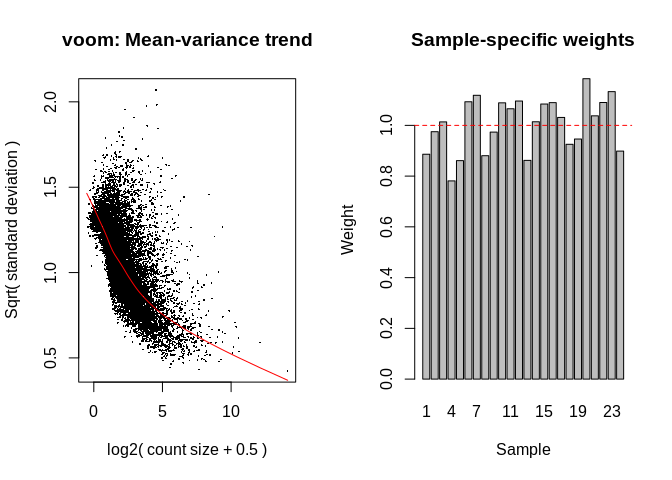
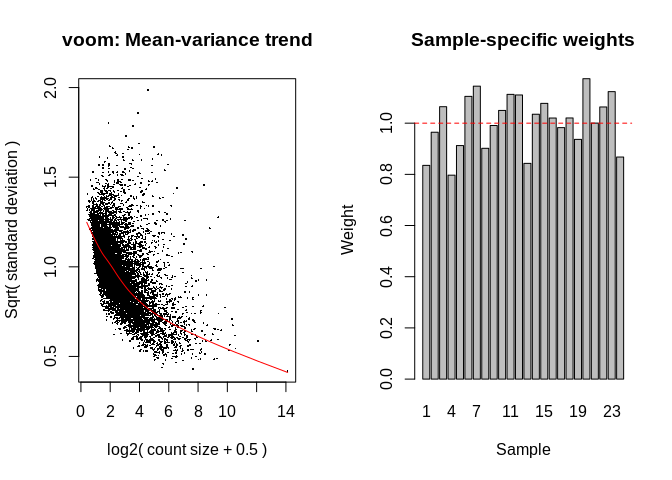
mark down updates

diff --git a/markdown_files/STAR_pipeline/03B_CV17_RNA_countNormilization.md b/markdown_files/STAR_pipeline/03B_CV17_RNA_countNormilization.md
@@ -81,11 +81,11 @@ g_mat <- scenario1$countMatrix
   <tr>
    <td style="text-align:left;"> Scenario 1 </td>
    <td style="text-align:left;"> 50 </td>
-   <td style="text-align:left;"> 0.5 </td>
-   <td style="text-align:left;"> 11690 </td>
-   <td style="text-align:left;"> 29.9720534317873 </td>
-   <td style="text-align:left;"> 4361101 </td>
-   <td style="text-align:left;"> 91.9522652077217 </td>
+   <td style="text-align:left;"> 0.2 </td>
+   <td style="text-align:left;"> 9009 </td>
+   <td style="text-align:left;"> 23.098223213599 </td>
+   <td style="text-align:left;"> 3915817 </td>
+   <td style="text-align:left;"> 82.5636102646798 </td>
   </tr>
 </tbody>
 </table></div>
@@ -908,7 +908,7 @@ To see a full description of this method please reference the original paper. [(
 ### Final count matrix Transformations  
 
 #### Using ```Voom``` in the ```limma``` package to transform data yet again.  
-Voom transform the count data using voomWithQualityWeights function. Voom transformation log normalizes the cpm data. Given that we a passing the DGEList that has already computed the normalization factors we can specify the ```lib.size``` and specify the ```normalization.method = "none"```  
+Voom transform the count data using voomWithQualityWeights function. Voom transformation log normalizes the cpm data. Given that we are passing the DGEList that has already computed the normalization factors we can specify the ```lib.size``` and specify the ```normalization.method = "none"```  
 
 
 ```r
@@ -919,7 +919,7 @@ v1 <- voomWithQualityWeights(dgeNorm, design=design, lib.size=dgeNorm$samples$li
   
 ### Including blocking variable in count matrix transformation  
   
-**Problem**: Our original meta data contains additional information about difference between samples that is not currently being utilized. This included at least one additional fixed fixed  factor (population), as well as random and blocking factors (the tank each oyster was sampled from). This latter can be accounted for in voom tranformation by inputting the blocking variable within the the function ```voomWithQualityWeights``` by using the arguement ```block=model$blockVariable```. In addition, the degreee of correlation between you blocking variable and your fixed factors (your design from above) should be inputted into the function. This can be estimated using ```duplicateCorrelation```.  
+**Problem**: Our original meta data contains additional information about difference between samples that is not currently being utilized. This included at least one additional fixed factor (population), as well as random and blocking factors (the tank each oyster was sampled from). This latter variable can be accounted for in voom tranformation by inputting the blocking variable within the the function ```voomWithQualityWeights``` by using the arguement ```block=model$blockVariable```. In addition, the degreee of correlation between your blocking variable and your fixed factors (your design from above) should be inputted into the function. This can be estimated using ```duplicateCorrelation```.  
 The benefit of incorporating the blocking variable is that it allows for there to be different variance between biological replicates, rather than calculating variance on a per-individual basis. In the Wong paper they considered samples taken from the same pCO2 vessel as a biological replicate. Here we consider any oyster taken from the same tank (tankID from unique shelf and tank combo) as biological replicates.  
   
 **Step 1:** run ```duplicateCorrelation``` using your original ```voom``` object, your fixed factor ```design```, and a vector with your blocking variable IDs. This function attempts to find the correlation between each locus in your count matrix and the block factor provided. It will output a list contain a vector of all correaltions - ```atanh.correlations``` -  for each locus, and a mean correlation across all loci, ```consensus```. The ```consensus``` scalar is what we will need to include when we perform the transformation again.  
@@ -937,16 +937,15 @@ v2 <- voomWithQualityWeights(dgeNorm,design,plot=TRUE,lib.size=dge$samples$lib.s
 ![](03B_CV17_RNA_countNormilization_files/figure-html/unnamed-chunk-16-1.png)<!-- -->
 
 ```r
-hist(unlist(scenario1$countMatrix[1,]))
+# Small sample of transformed genes to get a feel for normalized distributions
+plot(density(v2$E[1,]),lwd=0.2,ylim=c(0,1.2),xlim=c(0,12),
+     main="Density Plots for first 500 genes after normalization")
+for(i in 2:500){
+  lines(density(v2$E[i,]),lwd=0.2)
+}
 ```
 
 ![](03B_CV17_RNA_countNormilization_files/figure-html/unnamed-chunk-16-2.png)<!-- -->
-
-```r
-hist(v2$E[1,])
-```
-
-![](03B_CV17_RNA_countNormilization_files/figure-html/unnamed-chunk-16-3.png)<!-- -->
   
 ### Writing ```.csv``` and ```.Rdata``` files for normalized count matrices
 

diff --git a/markdown_files/STAR_pipeline/04B_CV17_RNA_DAPC.md b/markdown_files/STAR_pipeline/04B_CV17_RNA_DAPC.md
@@ -44,14 +44,14 @@ cumsum(props)
 ```
 
 ```
-##        PC1        PC2        PC3        PC4        PC5        PC6 
-## 0.05488057 0.10812551 0.15944845 0.20894727 0.25747995 0.30470992 
-##        PC7        PC8        PC9       PC10       PC11       PC12 
-## 0.35133418 0.39728772 0.44224971 0.48636657 0.52997669 0.57258531 
-##       PC13       PC14       PC15       PC16       PC17       PC18 
-## 0.61469572 0.65613613 0.69684068 0.73693347 0.77684600 0.81596484 
-##       PC19       PC20       PC21       PC22       PC23       PC24 
-## 0.85451222 0.89213567 0.92914657 0.96550480 1.00000000 1.00000000
+##       PC1       PC2       PC3       PC4       PC5       PC6       PC7 
+## 0.0572804 0.1110882 0.1614416 0.2100125 0.2584666 0.3061630 0.3524641 
+##       PC8       PC9      PC10      PC11      PC12      PC13      PC14 
+## 0.3981932 0.4424318 0.4863204 0.5294445 0.5724671 0.6145279 0.6556555 
+##      PC15      PC16      PC17      PC18      PC19      PC20      PC21 
+## 0.6963296 0.7368893 0.7771020 0.8162589 0.8549461 0.8931683 0.9302421 
+##      PC22      PC23      PC24 
+## 0.9664466 1.0000000 1.0000000
 ```
 
 ```r
@@ -168,3 +168,47 @@ ggplot(meta,aes(discriminant_treatment_15,fill=as.factor(interaction(Day,treatme
 
 ![](04B_CV17_RNA_DAPC_files/figure-html/unnamed-chunk-8-1.png)<!-- -->
   
+### TWO STEP DAPC: first create discriminant function from TP 9 samples and predict coordinates on df for day 80 samples.  
+  
+**Creating DF by treatment with first timepoint**  
+
+```r
+early_time_counts <- counts[,meta$Day == 9]
+early_time_meta <- meta[meta$Day == 9,]
+
+dapc_treatment_15<-dapc(t(early_time_counts),early_time_meta$treatment,n.pca=10,n.da=2)
+# PCs = 5
+# clusters = 1
+early_time_meta$discriminant_treatment_15 <- dapc_treatment_15$ind.coord
+
+ggplot(early_time_meta,aes(discriminant_treatment_15,fill=as.factor(treatment),colour=as.factor(treatment))) + 
+  geom_density(alpha=0.1,adjust=3) + xlim(-10,10) + 
+  labs(title="Discriminant Function for Treatment on Day 9",
+       x="Discriminant function 1",
+       colour="Treatment",
+       fill="Treatment")
+```
+
+![](04B_CV17_RNA_DAPC_files/figure-html/unnamed-chunk-9-1.png)<!-- -->
+
+**Mapping Day 80 samples**  
+
+```r
+late_time_counts <- counts[,meta$Day == 80]
+late_time_meta <- meta[meta$Day == 80,]
+
+predict_values <- predict.dapc(dapc_treatment_15,t(late_time_counts))
+late_time_meta$discriminant_treatment_15 <-predict_values$ind.scores
+
+whole_meta <- rbind(early_time_meta,late_time_meta)
+
+ggplot(whole_meta,aes(discriminant_treatment_15,fill=as.factor(interaction(Day,treatment)),colour=as.factor(interaction(Day,treatment)))) + 
+  geom_density(alpha=0.1,adjust=3) + xlim(-10,10) + 
+  labs(title="Discriminant Function for Treatment on Day 9 - Mapped with Day 80 Samples",
+       x="Discriminant function 1",
+       colour="Day.Treatment",
+       fill="Day.Treatment")
+```
+
+![](04B_CV17_RNA_DAPC_files/figure-html/unnamed-chunk-10-1.png)<!-- -->
+Huh... expresssion profiles appear to converge over time.

diff --git a/markdown_files/STAR_pipeline/03A_CV17_RNA_countFilteringandAnalysis.md b/markdown_files/STAR_pipeline/03A_CV17_RNA_countFilteringandAnalysis.md
@@ -1159,7 +1159,7 @@ hist(GC_time_diff,breaks =100,main="Histogram of proportion difference of gene c
 ```r
 # Count Threshold
 CT <-  50 # Minimum number of counts for a single gene
-PMAX <-  0.5 # Maximum proportion of counts in a single individual
+PMAX <-  0.2 # Maximum proportion of counts in a single individual
 ```
 
 
@@ -1170,7 +1170,7 @@ PMAX <-  0.5 # Maximum proportion of counts in a single individual
 gene_diagnostics$CT <- c(gene_diagnostics$Total_Reads > CT)
 
 # Single Ind Max
-gene_diagnostics$PMAX <- c(gene_diagnostics$Prop_Single_Ind < 0.8)
+gene_diagnostics$PMAX <- c(gene_diagnostics$Prop_Single_Ind < PMAX)
 ```
 
 #### **Filtering Scenarios**  
@@ -1236,11 +1236,11 @@ filter_sum <- rbind(filter_sum,s1)
   <tr>
    <td style="text-align:left;"> Scenario 1 </td>
    <td style="text-align:left;"> 50 </td>
-   <td style="text-align:left;"> 0.5 </td>
-   <td style="text-align:left;"> 11690 </td>
-   <td style="text-align:left;"> 29.9720534317873 </td>
-   <td style="text-align:left;"> 4361101 </td>
-   <td style="text-align:left;"> 91.9522652077217 </td>
+   <td style="text-align:left;"> 0.2 </td>
+   <td style="text-align:left;"> 9009 </td>
+   <td style="text-align:left;"> 23.098223213599 </td>
+   <td style="text-align:left;"> 3915817 </td>
+   <td style="text-align:left;"> 82.5636102646798 </td>
   </tr>
 </tbody>
 </table></div>
@@ -1266,7 +1266,7 @@ saveRDS(scenario1_list,"/home/downeyam/Github/2017OAExp_Oysters/input_files/RNA/
 **SCENARIO 1: Read count vs. Trt Ratio**  
 
 ```
-## Warning: Removed 595 rows containing missing values (geom_point).
+## Warning: Removed 563 rows containing missing values (geom_point).
 ```
 
 ![](03A_CV17_RNA_countFilteringandAnalysis_files/figure-html/unnamed-chunk-24-1.png)<!-- -->
@@ -1282,7 +1282,7 @@ saveRDS(scenario1_list,"/home/downeyam/Github/2017OAExp_Oysters/input_files/RNA/
 **SCENARIO 1: Read count vs. Treatment (per gene; Total counts < 100)**  
 
 ```
-## Warning: Removed 7064 rows containing missing values (geom_point).
+## Warning: Removed 5765 rows containing missing values (geom_point).
 ```
 
 ![](03A_CV17_RNA_countFilteringandAnalysis_files/figure-html/unnamed-chunk-26-1.png)<!-- -->
